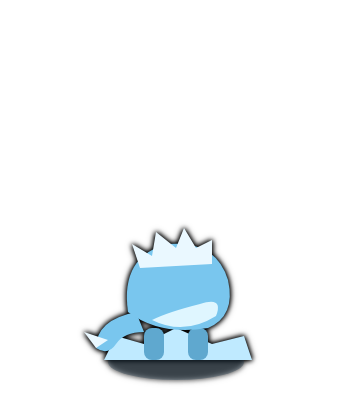
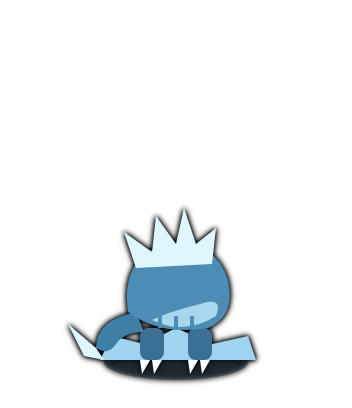
Eisdrache gefährlicher (26v)
Claude-Session: https://claude.ai/code/session_012Nsno37nEjc4wateER8C5H

Changed region(s): [[0.1875, 0.5, 0.75, 0.9412]]

diff --git a/tools/turm/tuerme.html b/tools/turm/tuerme.html
@@ -57,7 +57,7 @@ e:[
 ['Frostnova','Effekt','Schneeflocke über Sockel',40,54,()=>{let r='';for(let i=0;i<6;i++){const a=i*Math.PI/3;const x=Math.cos(a)*16,y=-26+Math.sin(a)*16;r+=`<line x1="0" y1="-26" x2="${x}" y2="${y}" stroke="#eaf8ff" stroke-width="3" stroke-linecap="round"/><line x1="${x*.6}" y1="${-26+Math.sin(a)*9.6}" x2="${x*.6+Math.cos(a+1)*5}" y2="${-26+Math.sin(a)*9.6+Math.sin(a+1)*5}" stroke="#bfeaff" stroke-width="2"/>`}return `<rect x="-4" y="-16" width="8" height="14" fill="#9fd3ee"/><g data-p="0">${r}<circle cx="0" cy="-26" r="4" fill="#fff"/></g>`}],
 ['Eisspeer','Schaden','langer Eisspeer, geneigt',46,48,()=>`<g data-p="0"><g transform="rotate(14)"><rect x="-2.5" y="-34" width="5" height="34" fill="#9fd3ee"/><path d="M0 -58 L7 -34 L-7 -34Z" fill="#eaf8ff"/><path d="M0 -58 L7 -34 L0 -34Z" fill="#bfeaff"/><rect x="-8" y="-12" width="16" height="4" rx="2" fill="#2f5a78"/></g></g>`],
 ['Blizzard','Fläche','Eiskrone, leuchtet blau (Symbol von Turm 8)',58,60,()=>`<path d="M-20 -2 L-16 -26 L-10 -2Z" fill="#9fd3ee"/><path d="M-10 -2 L-4 -48 L4 -2Z" fill="#dff6ff"/><path d="M-4 -48 L4 -2 L-4 -2Z" fill="#bfeaff"/><path d="M4 -2 L10 -32 L16 -2Z" fill="#9fd3ee"/><path d="M14 -2 L20 -20 L22 -2Z" fill="#bfeaff"/><g data-p="0"><circle cx="0" cy="-26" r="22" fill="#79c6ee" opacity=".18"/><circle cx="0" cy="-34" r="3" fill="#fff"/></g>`],
-['Ewiges Eis','Effekt','Eisdrache auf einer Eisscholle, speit Eisfeuer',62,50,()=>`<ellipse cx="0" cy="-1.5" rx="17" ry="4.5" fill="#1f3a4c" opacity=".35"/><path d="M-18 -2 L-15 -8 L-8 -6 L0 -10 L9 -6 L17 -8 L19 -2Z" fill="#bfeaff"/><path d="M-10 -14 Q-20 -12 -20 -5 Q-17 -3 -15 -6 Q-13 -9 -8 -9Z" fill="#79c6ee"/><path d="M-20 -5 L-23 -9 L-17 -7Z" fill="#eaf8ff"/><rect x="-8" y="-10" width="5" height="8" rx="2" fill="#5fa8cf"/><rect x="3" y="-10" width="5" height="8" rx="2" fill="#5fa8cf"/><path d="M-12 -14 Q-14 -28 -2 -31 Q10 -32 13 -22 Q15 -13 8 -10 Q-4 -8 -12 -14Z" fill="#79c6ee"/><path d="M-6 -12 Q2 -8 10 -13 Q12 -18 6 -16 Q-2 -14 -6 -12Z" fill="#dff6ff"/><path d="M-9 -25 L-11 -31 L-6 -28 L-5 -34 L0 -30 L2 -35 L5 -30 L9 -32 L9 -26Z" fill="#eaf8ff"/><g data-p="1"><path d="M-2 -27 Q-12 -52 -22 -44 Q-17 -42 -18 -37 Q-12 -39 -11 -33 Q-7 -34 -2 -27Z" fill="#b9e2f5"/><path d="M-2 -27 Q-12 -46 -22 -44 M-2 -27 L-18 -37 M-2 -27 L-11 -33" stroke="#5fa8cf" stroke-width="1" fill="none"/></g><g data-p="0"><path d="M5 -24 Q10 -34 10 -42" stroke="#79c6ee" stroke-width="8" fill="none" stroke-linecap="round"/><path d="M5 -48 Q14 -55 24 -48 Q27 -44 23 -41 Q17 -40 11 -38 Q4 -40 5 -48Z" fill="#9fd3ee"/><path d="M12 -40 Q19 -37 24 -42 L23 -41 Q17 -40 12 -40Z" fill="#5fa8cf"/><circle cx="12" cy="-47" r="2" fill="#fff"/><circle cx="12.6" cy="-47" r="1" fill="#2f5a78"/><path d="M7 -50 L2 -58 L11 -52Z M12 -52 L10 -60 L16 -53Z" fill="#eaf8ff"/></g>`]],
+['Ewiges Eis','Effekt','Eisdrache mit Reißzähnen und leuchtenden Augen auf einer Eisscholle, speit Eisfeuer',62,52,()=>`<ellipse cx="0" cy="-1.5" rx="18" ry="4.5" fill="#102430" opacity=".45"/><path d="M-19 -2 L-16 -8 L-8 -6 L0 -10 L9 -6 L18 -8 L20 -2Z" fill="#9fd3ee"/><path d="M-10 -14 Q-20 -12 -20 -5 Q-17 -3 -15 -6 Q-13 -9 -8 -9Z" fill="#3f7fa6"/><path d="M-20 -5 L-27 -11 L-23 -3 L-18 -2Z" fill="#dff6ff"/><rect x="-9" y="-10" width="6" height="8" rx="2" fill="#3a7096"/><rect x="3" y="-10" width="6" height="8" rx="2" fill="#3a7096"/><path d="M-9 -2 L-8.5 1.5 L-6.5 -2 M-6 -2 L-5.5 1.5 L-3.5 -2 M3 -2 L3.5 1.5 L5.5 -2 M6 -2 L6.5 1.5 L8.5 -2" fill="#fff"/><path d="M-12 -14 Q-14 -28 -2 -31 Q10 -32 13 -22 Q15 -13 8 -10 Q-4 -8 -12 -14Z" fill="#4d8db5"/><path d="M-6 -12 Q2 -8 10 -13 Q12 -18 6 -16 Q-2 -14 -6 -12Z" fill="#a8d8ee"/><path d="M-4 -13 L-4 -10 M0 -13 L0 -9.5 M4 -13 L4 -10" stroke="#4d8db5" stroke-width="1"/><path d="M-10 -25 L-13 -34 L-6 -29 L-5 -38 L0 -31 L2 -40 L5 -31 L10 -35 L9 -26Z" fill="#dff6ff"/><g data-p="1"><path d="M-2 -27 L-8 -55 L-14 -46 L-18 -57 L-21 -43 L-26 -48 L-23 -33 L-13 -30Z" fill="#2f6a8f"/><path d="M-2 -27 L-8 -55 M-2 -27 L-18 -57 M-2 -27 L-26 -48" stroke="#bfeaff" stroke-width="1.4" fill="none" stroke-linecap="round"/></g><g data-p="0"><path d="M5 -24 Q10 -34 10 -42" stroke="#4d8db5" stroke-width="8" fill="none" stroke-linecap="round"/><path d="M4 -27 L1 -31 L6 -30 M6 -33 L3 -38 L8 -36 M8 -39 L5 -44 L10 -42Z" fill="#dff6ff"/><path d="M4 -48 L10 -54 L22 -50 L28 -45 L24 -42 L26 -40 L22 -38 L14 -38 L10 -36 L4 -40Z" fill="#6aa8cc"/><path d="M11 -38 Q18 -34 26 -39 L22 -38 Q17 -37 14 -38Z" fill="#2f5a78"/><path d="M16 -40 L17 -36 L18.5 -40 M20 -40 L21 -36.5 L22.5 -40 M24 -41 L24.6 -38 L26 -41" fill="#fff"/><path d="M9 -48 L17 -46 L14.5 -43.6 L9 -45Z" fill="#7df9ff"/><path d="M8 -50.5 L19 -46" stroke="#102430" stroke-width="2"/><path d="M8 -52 Q2 -58 -4 -56 Q2 -54 6 -49Z M13 -53 Q10 -61 3 -62 Q9 -57 11 -51Z" fill="#eaf8ff"/></g>`]],
 s:[
 ['Schemen','Schaden','kapuzenartiger Schatten',22,46,()=>`<g data-p="0"><path d="M-11 -2 Q-13 -22 0 -26 Q13 -22 11 -2 Q6 -6 0 -2 Q-6 -6 -11 -2Z" fill="#150f26"/><ellipse cx="-4" cy="-14" rx="2.4" ry="3" fill="#e9dcff"/><ellipse cx="4" cy="-14" rx="2.4" ry="3" fill="#e9dcff"/></g>`],
 ['Irrlicht','Licht','schwebende Lichtkugel',28,44,()=>`<g data-p="0"><circle cx="0" cy="-22" r="22" fill="#fff4c0" opacity=".2"/><circle cx="0" cy="-22" r="14" fill="#fff4c0" opacity=".3"/><circle cx="0" cy="-22" r="7" fill="#fffbe0"/></g><path d="M-4 -2 q-2 -8 4 -10 M4 -2 q2 -6 -3 -9" stroke="#a98bff" stroke-width="2" fill="none"/>`],

diff --git a/index.html b/index.html
@@ -222,7 +222,7 @@ const FIREBASE_CONFIG = {
   appId: "1:45840879921:web:f4f4f8bb60e49a091ae010"
 };
 const GAME_ID = "spiel1";   // anderer Name = eigenes, getrenntes Spiel
-const VERSION = "2026-10-26u";  // bei JEDER Änderung hochzählen: alte Handys merken so, dass sie neu laden müssen
+const VERSION = "2026-10-26v";  // bei JEDER Änderung hochzählen: alte Handys merken so, dass sie neu laden müssen
 
 /* =====================================================================
    SPIELDATEN – Regeln und Zahlen. Alles hier darf geändert werden.
@@ -1895,7 +1895,7 @@ function drawTower(c, tw, px, py, cs, aim, glow, noBody){
 }
 const TIMG = {};   // 26.10. (F): freistehende Turm-Bilder der Schräg-Ansicht, assets/turm/<element>-<nr>.png (88×102-Raster, Fußpunkt bei y=92), Entwürfe/Quelle: team/GRAFIK.md
 const TOWER_NAME = ['feuer', 'eis', 'schatten', 'stein'];
-const TOWER_H = { feuer:[22,42,26,34,52,69.5,52,42], eis:[26,34.5,66.4,62,39.9,58.2,48,60], schatten:[26,44,39,44,26.6,49,48,60], stein:[48,30,58,62,22,70,33,88] };   // Höhe der Zeichnung über dem Fuß (Raster-Einheiten)
+const TOWER_H = { feuer:[22,42,26,34,52,69.5,52,42], eis:[26,34.5,66.4,62,39.9,58.2,48,62], schatten:[26,44,39,44,26.6,49,48,60], stein:[48,30,58,62,22,70,33,88] };   // Höhe der Zeichnung über dem Fuß (Raster-Einheiten)
 function loadImg(k){   // bei Ladefehler bis zu 3 Wiederholungen (Handy-Netz)
   if (k in TIMG) return TIMG[k] && TIMG[k].complete && TIMG[k].naturalWidth ? TIMG[k] : null;
   const im = new Image(); im.onerror = () => { TIMG[k] = null; loadImg.n[k] = (loadImg.n[k] || 0) + 1; if (loadImg.n[k] < 4) setTimeout(() => { delete TIMG[k]; loadImg(k); }, 1500*loadImg.n[k]); }; im.onload = () => { if (!view25 || typeof drawAll !== 'function') return; drawAll(); clearTimeout(towerImg.t); towerImg.t = setTimeout(() => { if (G && typeof render === 'function') render(); }, 80); }; im.src = 'assets/turm/' + k + '.png'; TIMG[k] = im; return null;
@@ -2000,7 +2000,7 @@ function drawTower25(c, tw, x, y, cs, aim, glow){
       c.drawImage(sp.parts[i], -44*u - px, -92*u - py, 88*u, 102*u); c.restore();
     }
     c.restore();
-    if (nm === 'feuer2' || nm === 'eis7') { const j = JETS[tw.el + ':' + (tw.x + .5) + ',' + (tw.y + .5)], mxo = nm === 'eis7' ? 24 : 17, myo = nm === 'eis7' ? 43 : 12;   // Flamme / Eisfeuer: von der Mündung zum Ziel, solange der Turm schießt
+    if (nm === 'feuer2' || nm === 'eis7') { const j = JETS[tw.el + ':' + (tw.x + .5) + ',' + (tw.y + .5)], mxo = nm === 'eis7' ? 27 : 17, myo = nm === 'eis7' ? 42 : 12;   // Flamme / Eisfeuer: von der Mündung zum Ziel, solange der Turm schießt
       if (j && j.t <= now + .05 && now - j.t < .28) drawFlame(c, fx + (Math.cos(aim) > 0 ? 1 : -1)*mxo*u, fy - myo*u, j.tx*cs, gyOf(j.ty, cs) - cs*.25, cs, now, Math.min(1, (.28 - (now - j.t)) / .12), nm === 'eis7'); }
     if (g > 0 && glow !== undefined) {                                              // Mündungseffekt in Elementfarbe (am Turm, in Zielrichtung)
       const mx = fx + dx*cs*.32, my = fy - hh*.55 + dy*cs*.2, col = ELEMENTS[tw.el].color;

diff --git a/team/UPDATES.md b/team/UPDATES.md
@@ -4,6 +4,9 @@
 Überschrift: drei Rauten, Datum Uhrzeit · L oder F · VERSION – Titel; darunter höchstens 5 Zeilen: was, warum, worauf achten.
 Mehr als 15 Einträge → die ältesten oben in team/archiv/updates-archiv.md einfügen. -->
 <!-- NEUE EINTRÄGE HIER -->
+### 26.10. 18:45 · F · 2026-10-26v – Eisdrache gefährlicher
+Dunklere Farben, wütender Blick mit leuchtend blauem Auge, Reißzähne, lange Hörner, Krallen, Stacheln, eckige Flügel mit Knochenfingern. Mündungspunkt für den Eisatem angepasst. Nur Anzeige.
+
 ### 26.10. 18:30 · F · 2026-10-26u – Eis: Speerwurf, dicker Eisspeer, Schneewolke, Eisdrache
 Schneekönig wirft seinen Eisspeer (dreht sich zum Ziel, Speer-Teilbild neu, Geschoss mit Frostschweif). Eisspeer-Geschoss deutlich dicker. Blizzard: Schneewolke über dem Ziel (`drawSnowCloud`), aus der es auf die Monster schneit. Ewiges Eis heißt jetzt **Eisdrache** (nur Anzeige, `spiegel.html` behält den alten Namen): neu gezeichneter Drache auf Eisscholle, Kopf und Flügel als Teilbilder, Eisatem wie beim Flammenwerfer (`drawFlame(..., ice)`, `JETS['1:…']`). `TOWER_H` eis[3] = 62, eis[7] = 60. Nur Anzeige.
 
@@ -45,6 +48,3 @@ Alle 32 Türme sind in Grundbild + Teilbilder zerlegt (`assets/turm/<element>-<n
 
 ### 26.10. 13:00 · F · 2026-10-26h – Angriffe der Türme passend zu den Bildern (Schräg-Ansicht)
 Geschosse je Turm eigene Optik (`shot25`: Funke, Feuerball, Flammenstrahl, Eissplitter, Schneeflocke, Speer, Seelen-Orb, Runenstein, Felsbrocken, Onyx-Splitter u. a.), Türme reagieren beim Schuss (`drawTower25`): Rückstoß, Speerstoß beim Granitwächter, Aufstampfen beim Bergkönig, Kippen beim Katapult, Flamme beim Flammenwerfer, Lavafunken beim Lavaturm, Irrlicht schwebt. Nur Anzeige, nur Schräg-Ansicht.
-
-### 26.10. 12:30 · F · 2026-10-26g – Richtige Bäume, Bauleiste für alle Elemente
-Wald: Tannen mit Stamm, Sumpf: Trauerweiden (`drawTree`, beide Ansichten) statt runder Kronen, die wie Büsche aussahen. Turm-Bilder werden beim Start vorgeladen, damit die Bauleiste bei jedem Element (nicht nur Feuer) die neuen Symbole zeigt.

diff --git a/team/archiv/updates-archiv.md b/team/archiv/updates-archiv.md
@@ -1,6 +1,10 @@
 # Archiv: ältere Updates (neueste oben)
 
 
+### 26.10. 12:30 · F · 2026-10-26g – Richtige Bäume, Bauleiste für alle Elemente
+Wald: Tannen mit Stamm, Sumpf: Trauerweiden (`drawTree`, beide Ansichten) statt runder Kronen, die wie Büsche aussahen. Turm-Bilder werden beim Start vorgeladen, damit die Bauleiste bei jedem Element (nicht nur Feuer) die neuen Symbole zeigt.
+
+
 ### 26.10. 12:00 · F · 2026-10-26f – Bauleiste mit den neuen Turm-Bildern
 In der Schräg-Ansicht zeigen Bauleiste und Dialoge (`towerIcon`) das zugeschnittene Turm-Bild statt des alten Kenney-Symbols (Symbolgröße 30 px). Das Felsen-Zeichen auf Türmen ist jetzt ein Felsbrocken statt eines Bergs. Draufsicht behält die alten Symbole.
 
